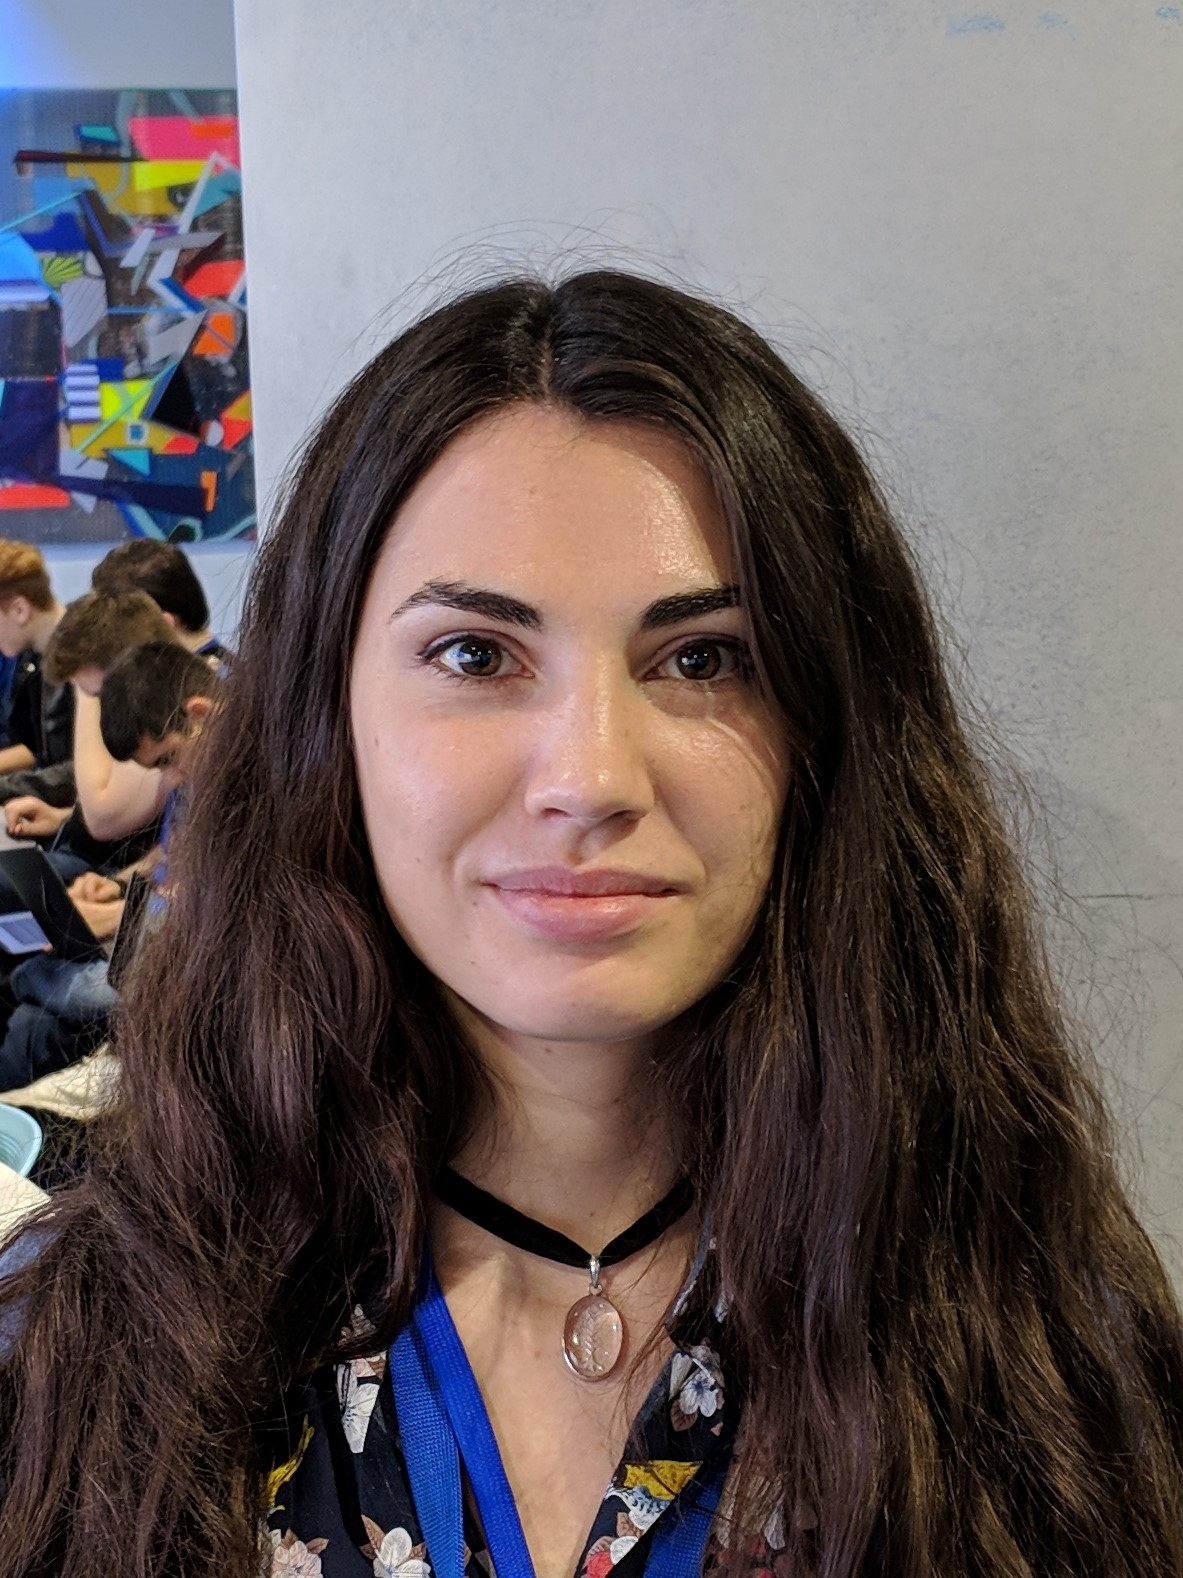
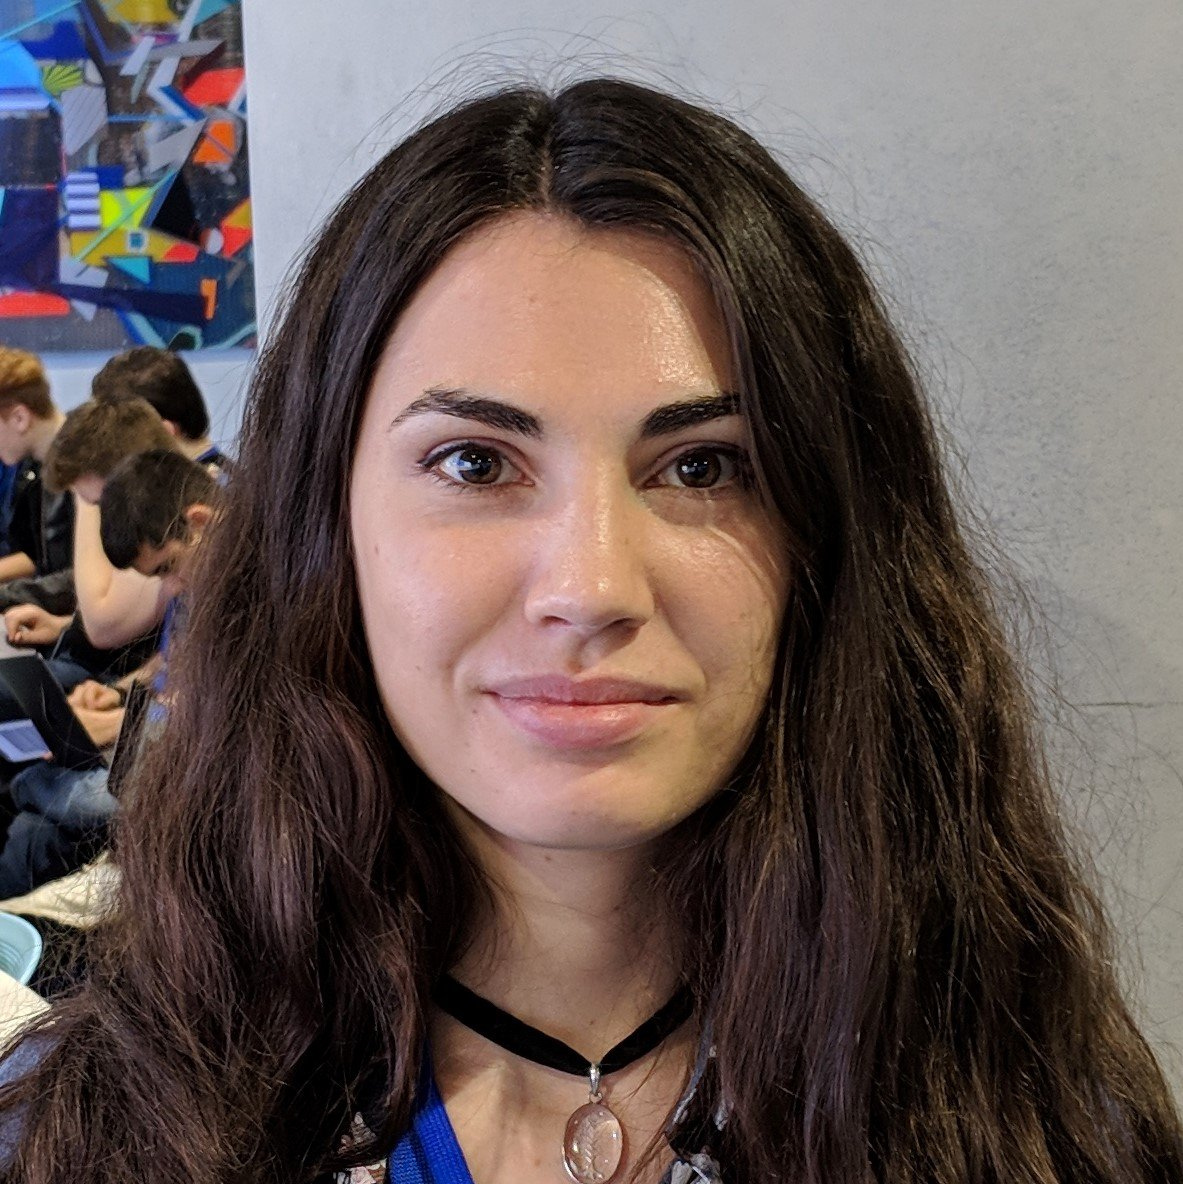
Crop images, add names and roles

diff --git a/src/app/team/team.component.html b/src/app/team/team.component.html
@@ -1,45 +1,48 @@
-<h2>Meet the awesome team!</h2>
-<div class="row">
-    <div class="member">
-        <img src="assets/images/eliza.jpg" class="member-image"/>
-        <div class="member-info">
-            <p class="member-info-line">Name</p>
-            <p class="member-info-line">Role</p>
-            <p class="member-info-line">Email</p>
+<div class="team-container">
+    <h2>Meet the awesome team!</h2>
+    <br>
+    <div class="row">
+        <div class="member">
+            <img src="assets/images/eliza.jpg" class="member-image"/>
+            <div class="member-info">
+                <p class="member-info-line">Eliza Pavel</p>
+                <p class="member-info-line">Project manager</p>
+                <p class="member-info-line">Email</p>
+            </div>
+        </div>
+        <div class="member">
+            <img src="assets/images/mihai.jpg" class="member-image"/>
+            <div class="member-info">
+                <p class="member-info-line">Mihai Olaru</p>
+                <p class="member-info-line">Web Designer</p>
+                <p class="member-info-line">Email</p>
+            </div>
+        </div>
+        <div class="member">
+            <img src="assets/images/john.jpeg" class="member-image"/>
+            <div class="member-info">
+                <p class="member-info-line">Ionut Vitec</p>
+                <p class="member-info-line">Salesman</p>
+                <p class="member-info-line">Email</p>
+            </div>
         </div>
     </div>
-    <div class="member">
-        <img src="assets/images/mihai.jpg" class="member-image"/>
-        <div class="member-info">
-            <p class="member-info-line">Name</p>
-            <p class="member-info-line">Role</p>
-            <p class="member-info-line">Email</p>
+    <div class="row">
+        <div class="member">
+            <img src="assets/images/ionut.jpg" class="member-image"/>
+            <div class="member-info">
+                <p class="member-info-line">Ionut Varia</p>
+                <p class="member-info-line">Business Developer</p>
+                <p class="member-info-line">Email</p>
+            </div>
         </div>
-    </div>
-    <div class="member">
-        <img src="assets/images/john.jpeg" class="member-image"/>
-        <div class="member-info">
-            <p class="member-info-line">Name</p>
-            <p class="member-info-line">Role</p>
-            <p class="member-info-line">Email</p>
-        </div>
-    </div>
-</div>
-<div class="row">
-    <div class="member">
-        <img src="assets/images/ionut.jpg" class="member-image"/>
-        <div class="member-info">
-            <p class="member-info-line">Name</p>
-            <p class="member-info-line">Role</p>
-            <p class="member-info-line">Email</p>
-        </div>
-    </div>
-    <div class="member">
-        <img src="assets/images/daniel.JPG" class="member-image"/>
-        <div class="member-info">
-            <p class="member-info-line">Name</p>
-            <p class="member-info-line">Role</p>
-            <p class="member-info-line">Email</p>
+        <div class="member">
+            <img src="assets/images/daniel.JPG" class="member-image"/>
+            <div class="member-info">
+                <p class="member-info-line">Daniel Berbece</p>
+                <p class="member-info-line">Web Developer</p>
+                <p class="member-info-line">Email</p>
+            </div>
         </div>
     </div>
 </div>

diff --git a/src/app/team/team.component.scss b/src/app/team/team.component.scss
@@ -1,17 +1,21 @@
-.row {
-    display: flex;
-    justify-content: space-evenly;
+.team-container {
+    text-align: center;
 
-    .member {
-        .member-image {
-            border-radius: 100%;
-            max-width: 100px;
-        }
-        
-        .member-info {
-            text-align: center;
-            .member-info-line {
-                margin-bottom: 0px;
+    .row {
+        display: flex;
+        justify-content: space-evenly;
+
+        .member {
+            .member-image {
+                border-radius: 100%;
+                max-width: 100px;
+            }
+            
+            .member-info {
+                text-align: center;
+                .member-info-line {
+                    margin-bottom: 0px;
+                }
             }
         }
     }
